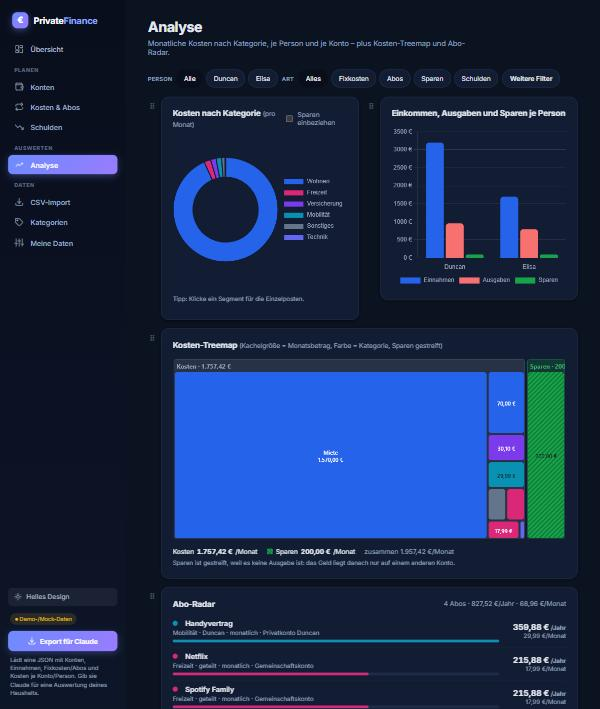
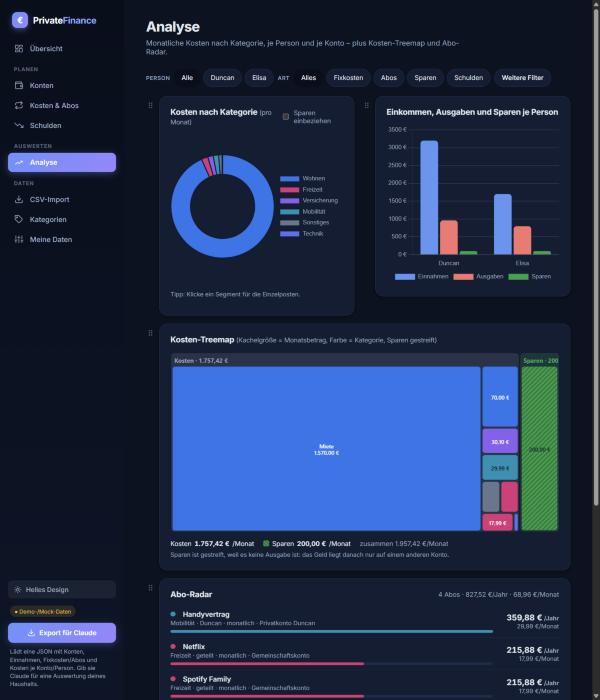
Standard-Palette auf 4,5:1 nachziehen (#8)
* Treemap: Sparen zeigen, ohne es zur Ausgabe zu machen

Die Kosten-Treemap filterte Sparposten heraus. Dadurch fehlten über
1.000 €/Monat im Bild: das Diagramm zeigte nicht, wohin das Geld geht,
sondern nur einen Ausschnitt davon.

Einfach mitzählen war keine Option. Sparkacheln in Kategoriefarben
hätten behauptet, die Sparrate sei ausgegeben – genau der Fehler, der im
Balkendiagramm je Person schon einmal korrigiert wurde.

Gewählt: beides zeigen, aber getrennt.
* Zwei Blöcke in der Treemap ("Kosten" und "Sparen"), jeder mit eigener
  Überschrift samt Summe. Sparen liegt damit zusammenhängend an einer
  Stelle, statt verstreut zwischen den Kosten. Technisch über die
  Gruppierung des Treemap-Plugins (groups: bucket -> Einzelposten).
* Sparkacheln in der Farbe der Kategorie "Sparen" (grün, nicht rot –
  dieselbe Linie wie der Sparen-Balken je Person) und zusätzlich
  diagonal gestreift. Die Streifen tragen den Unterschied auch dann,
  wenn Farben schlecht zu unterscheiden sind; grün statt des Balken-Blaus,
  weil Blau in der Treemap schon die Kategorie "Wohnen" ist – die größte
  Kachel (Miete) ist blau.
* Unter dem Diagramm eine Summenzeile aus denselben Daten: Kosten,
  Sparen (mit gestreiftem Farbtupfer) und beides zusammen.

Kein Umschalter "mit/ohne Sparen": ein Schalter, der standardmäßig aus
ist, stellt den alten Zustand wieder her, und einer, der an ist, braucht
die Unterscheidung trotzdem. Zwei Blöcke lösen beides auf einmal – und
[…]

diff --git a/src/lib/palettes.js b/src/lib/palettes.js
@@ -37,9 +37,11 @@
 //            und die Hinweisflächen.
 //  Sparen ist in keiner Palette rot.
 //
-//  Die Palette „standard“ ist der Stand von vorher. Ihre Flächen-, Rahmen- und
+//  Die Palette „standard“ ist die gewohnte Ansicht. Ihre Flächen-, Rahmen- und
 //  Textwerte stehen weiterhin in `index.css` und werden hier NICHT überschrieben
-//  (`ui: null`) — ohne gespeicherte Wahl sieht die App also unverändert aus.
+//  (`ui: null`); nur die Datenwerte kommen von hier. Ihre Töne sind dieselben
+//  wie vorher, einige davon so weit nachgedunkelt bzw. aufgehellt, dass sie die
+//  4,5:1 erreichen — Farbton und Sättigung sind geblieben.
 //  Die Datenwerte (Kontofarben, Kategorien, Diagramm-Grundfarben) kommen für
 //  jede Palette aus dieser Datei, damit sie nur an einer Stelle stehen.
 // =============================================================================
@@ -58,27 +60,27 @@ const DATA = {
     ui: null,
     light: {
       card: '#ffffff',
-      pos: '#16a34a', neg: '#dc2626', warn: '#d97706', info: '#2563eb',
-      series: ['#3b82f6', '#ec4899', '#10b981', '#f59e0b', '#8b5cf6', '#14b8a6', '#ef4444', '#64748b'],
+      pos: '#117d39', neg: '#d32222', warn: '#a35a05', info: '#2462eb',
+      series: ['#3b82f6', '#ec4899', '#0e9d6e', '#c07b08', '#8b5cf6', '#119b8b', '#ef4444', '#64748b'],
       cat: {
         Wohnen: '#2563eb', 'Mobilität': '#0891b2', Gesundheit: '#0d9488', Versicherung: '#7c3aed',
-        Freizeit: '#db2777', Technik: '#6366f1', Sparen: '#16a34a', Bargeld: '#ca8a04',
+        Freizeit: '#db2777', Technik: '#6366f1', Sparen: '#169f48', Bargeld: '#b97e04',
         Sonstiges: '#64748b',
       },
       chart: {
-        grid: 'rgba(148, 163, 184, 0.25)', tick: '#64748b', tooltipBg: '#0f172a',
+        grid: 'rgba(148, 163, 184, 0.25)', tick: '#5e6d83', tooltipBg: '#0f172a',
         tooltipFg: '#ffffff', muted: 'rgba(148, 163, 184, 0.3)',
         defaultBorder: 'rgba(15, 23, 42, 0.08)',
       },
     },
     dark: {
       card: '#121c32',
-      pos: '#34d399', neg: '#f87171', warn: '#fbbf24', info: '#2563eb',
-      series: ['#3b82f6', '#ec4899', '#10b981', '#f59e0b', '#8b5cf6', '#14b8a6', '#ef4444', '#64748b'],
+      pos: '#34d399', neg: '#f87171', warn: '#fbbf24', info: '#6591f1',
+      series: ['#3b82f6', '#ec4899', '#10b981', '#f59e0b', '#8b5cf6', '#14b8a6', '#ef4444', '#66778e'],
       cat: {
-        Wohnen: '#2563eb', 'Mobilität': '#0891b2', Gesundheit: '#0d9488', Versicherung: '#7c3aed',
+        Wohnen: '#346eec', 'Mobilität': '#0891b2', Gesundheit: '#0d9488', Versicherung: '#8c52ef',
         Freizeit: '#db2777', Technik: '#6366f1', Sparen: '#16a34a', Bargeld: '#ca8a04',
-        Sonstiges: '#64748b',
+        Sonstiges: '#66778e',
       },
       chart: {
         grid: 'rgba(148, 163, 184, 0.25)', tick: '#94a3b8', tooltipBg: '#0f172a',

diff --git a/src/index.css b/src/index.css
@@ -6,8 +6,8 @@
   --sidebar-bg-2: #131c33;
   --sidebar-text: #aab8ce;
   --sidebar-text-active: #ffffff;
-  --accent: #4c6ef5;
-  --accent-2: #7c5cf0;
+  --accent: #375df4;
+  --accent-2: #704eef;
   --accent-soft: #e3e8fd;
 
   --content-bg: #f2f4fa;
@@ -18,11 +18,11 @@
   --border-strong: #c9d1e0;
 
   --text: #0f172a;
-  --text-muted: #64748b;
+  --text-muted: #5e6d83;
 
-  --pos: #16a34a;
-  --neg: #dc2626;
-  --warn: #d97706;
+  --pos: #117d39;
+  --neg: #d32222;
+  --warn: #a35a05;
   --warn-soft: #fef3c7;
   --warn-soft-strong: #fde9b8;
 
@@ -36,7 +36,7 @@
   --pill-fix-bg: #e0edff;  --pill-fix-fg: #1d4ed8;
   --pill-sub-bg: #fce7f3;  --pill-sub-fg: #be185d;
   --pill-umb-bg: #e0e7ff;  --pill-umb-fg: #4338ca;
-  --pill-ended-bg: #f1f5f9; --pill-ended-fg: #64748b;
+  --pill-ended-bg: #f1f5f9; --pill-ended-fg: #5e6d83;
 
   /* Hinweisflächen (Verdict/Info) */
   --ok-soft: #f0fdf4;   --ok-border: #bbf7d0;
@@ -74,8 +74,8 @@
   --sidebar-bg: #090e1c;
   --sidebar-bg-2: #0d1528;
   --sidebar-text: #9fb0c8;
-  --accent: #6d8bff;
-  --accent-2: #9a7bff;
+  --accent: #6f8cff;
+  --accent-2: #9d7eff;
   --accent-soft: rgba(109, 139, 255, 0.16);
 
   --content-bg: #0b1220;
